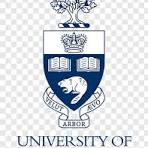
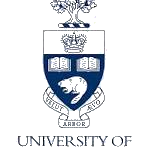
fix: Remove fake checkerboard background pattern from UofT crest PNG for crisp transparent rendering

diff --git a/src/pages/Dashboard.tsx b/src/pages/Dashboard.tsx
@@ -140,9 +140,9 @@ export default function Dashboard() {
       <div className="mb-6 bg-card text-foreground rounded-2xl p-5 md:p-6 shadow-sm border border-border flex flex-col md:flex-row md:items-center justify-between gap-5 transition-all">
         <div className="flex items-center gap-5">
           <img
-            src="/uoft-crest.png"
+            src="/uoft-crest-clean.png"
             alt="University of Toronto Coat of Arms"
-            className="h-16 md:h-20 w-auto object-contain shrink-0 mix-blend-multiply dark:mix-blend-normal dark:bg-white/90 dark:p-1.5 rounded-lg border border-border/50 shadow-2xs"
+            className="h-16 md:h-20 w-auto object-contain shrink-0 rounded-lg shadow-2xs"
           />
           <div className="space-y-1">
             <div className="flex items-center gap-2">
